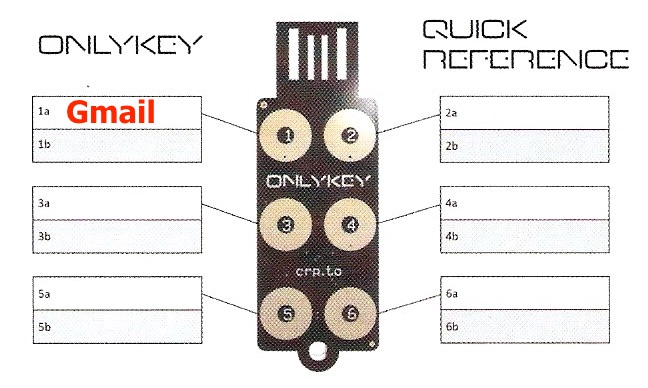
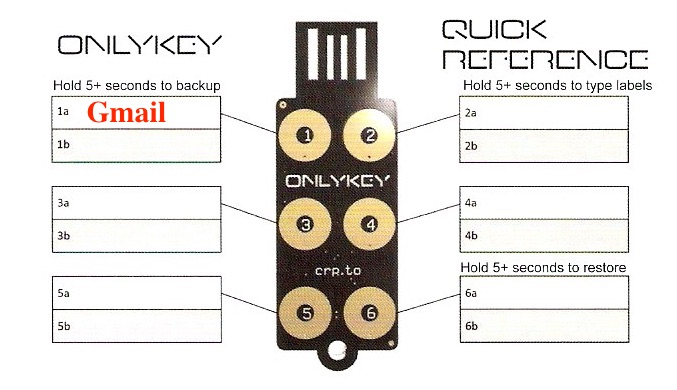
update

diff --git a/pages/mydoc/usersguide.md b/pages/mydoc/usersguide.md
@@ -172,11 +172,28 @@ The slots that have not been configured have no label so they are shown as ''emp
 
 {% include image.html file="image66.png" %}
 
+#### OnlyKey On-The-Go {#otg}
+
 **What if I am using a computer without the OnlyKey app?**
 
 This is where the card you received with your OnlyKey comes in handy. You can write your labels on this and carry this in your wallet. This is a low tech solution but it works great.
 
 {% include image.html file="card.jpg" max-width="400" %}
+
+As mentioned on the card you can hold down the 2 button on OnlyKey for 5+ seconds and OnlyKey will type out your slot labels which may look something like this
+
+`1a Google
+2a Bank
+3a Email
+4a VPN
+5a School
+6a U2F
+1b Amazon
+2b Dropbox
+3b
+4b
+5b
+6b Lastpass`
 
 {% include important.html content="Obviously, no sensitive information should be written on the card or saved to your slot labels. Just something that helps you remember which account is assigned there. Next, let's assign a username and password to slot 1a." %}
 
@@ -215,6 +232,8 @@ As mentioned earlier, login pages can be different between sites and sometimes e
 
 Additionally, by using the URL field we can have the OnlyKey type the login page URL into the browser and browse to the login page (in this case accounts.google.com). This way a one-touch login is possible. Just select the empty URL field in the browser and the URL is automatically typed out and Return is pressed to browse to the site. Once on the site the password is entered and the login is complete.
 
+{% include tip.html content="Using the URL field provides protection against spear phishing attacks as this provides assurance that the site you are entering your password into is the legitimate site. For example, if you receive an email asking you to log into your account to verify something instead of clicking the link in the email to login you would use OnlyKey to browse to the correct site to login." %}
+
 **The example configuration shown below would be to set up a URL and password to automatically login to the Google page shown below. Notice that the username is already remembered so there is not a need to set this in the OnlyKey slot.**
 
 {% include image.html file="image72.png" max-width="624" %}
@@ -235,7 +254,7 @@ Additionally, by using the URL field we can have the OnlyKey type the login page
    <td>Site that does not automatically select username field after loading page (i.e.Kracken).
 {% include image.html file="image42.png" max-width="201" %}
    </td>
-   <td><em>With URL - You will notice that the delay is set to a high value so that you have plenty of time to select the username field manually since it's not selected automatically.</em>
+   <td><em>With URL - You will notice that "Tab before UserName" is checked. This will select the username field as it is not automatically selected when the page loads.</em>
 {% include image.html file="image54.png" max-width="395" %}
 <em>Without URL - Browse to the login page first and place cursor in the username field before selecting the assigned OnlyKey button.</em>
 {% include image.html file="image4.png" max-width="395" %}
@@ -246,7 +265,7 @@ Additionally, by using the URL field we can have the OnlyKey type the login page
    </td>
    <td><em>Password and 2FA only - This is usually the best option if you remember your username/email address as this will work on any computer whether your username is remembered or not. This method does not include URL in case you are prompted for a password.</em>
 {% include image.html file="image60.png" max-width="395"%}
-<em>Username Remembered w/URL - If you use your device mostly on a computer where you username is remembered this is a good option.</em>
+<em>Username Remembered w/URL - If you use your device mostly on a computer where you username is remembered this is a good option. If you use this configuration on a computer where username is not remembered then you must output of the login information into notepad and paste into login fields.</em>
 {% include image.html file="image61.png" max-width="395" %}
    </td>
   </tr>
@@ -256,7 +275,7 @@ Additionally, by using the URL field we can have the OnlyKey type the login page
 After loading next page
 {% include image.html file="image47.png" max-width="201" %}
    </td>
-   <td><em>You will notice that the delay before 2FA is set to a high value so that you have plenty of time to select the OTP code field manually since it's not selected automatically.</em>
+   <td><em>You will notice that "Tab before OTP" is checked. This will select the OTP field as it is not automatically selected when the page loads.</em>
 {% include image.html file="image44.png" max-width="395"%}
    </td>
   </tr>
@@ -344,6 +363,12 @@ Once your account has been verified you are all set. You can add a username and 
 {% include image.html file="image37.png" max-width="600" %}
 
 Learn more about the implementation of Google Auth OTP [here.](#google-authenticator-totp)
+
+#### Google Authenticator OTP On-The-Go {#google-authenticator-otg}
+
+One requirement of TOTP (Time-based One-time Password) is having the correct time. If OnlyKey is used on a system where the OnlyKey app is not running it will display "NOTSET" instead of the OTP code. Because OnlyKey has no battery it requires an app to send it the correct time to be able to generate TOTP codes. However, starting with our Beta 6 release of OnlyKey TOTP will work on-the-go without the app running. All you have to do is browse to our web app https://apps.crp.to in Google Chrome or Firefox (With U2F Enabled). This web app in addition to being used to send encrypted messages sets the current time on OnlyKey and login with TOTP will function as normal. 
+
+{% include image.html file="totp.png" max-width="600" %}
 
 #### Yubico® One-Time Password {#Yubico-one-time-password}
 
